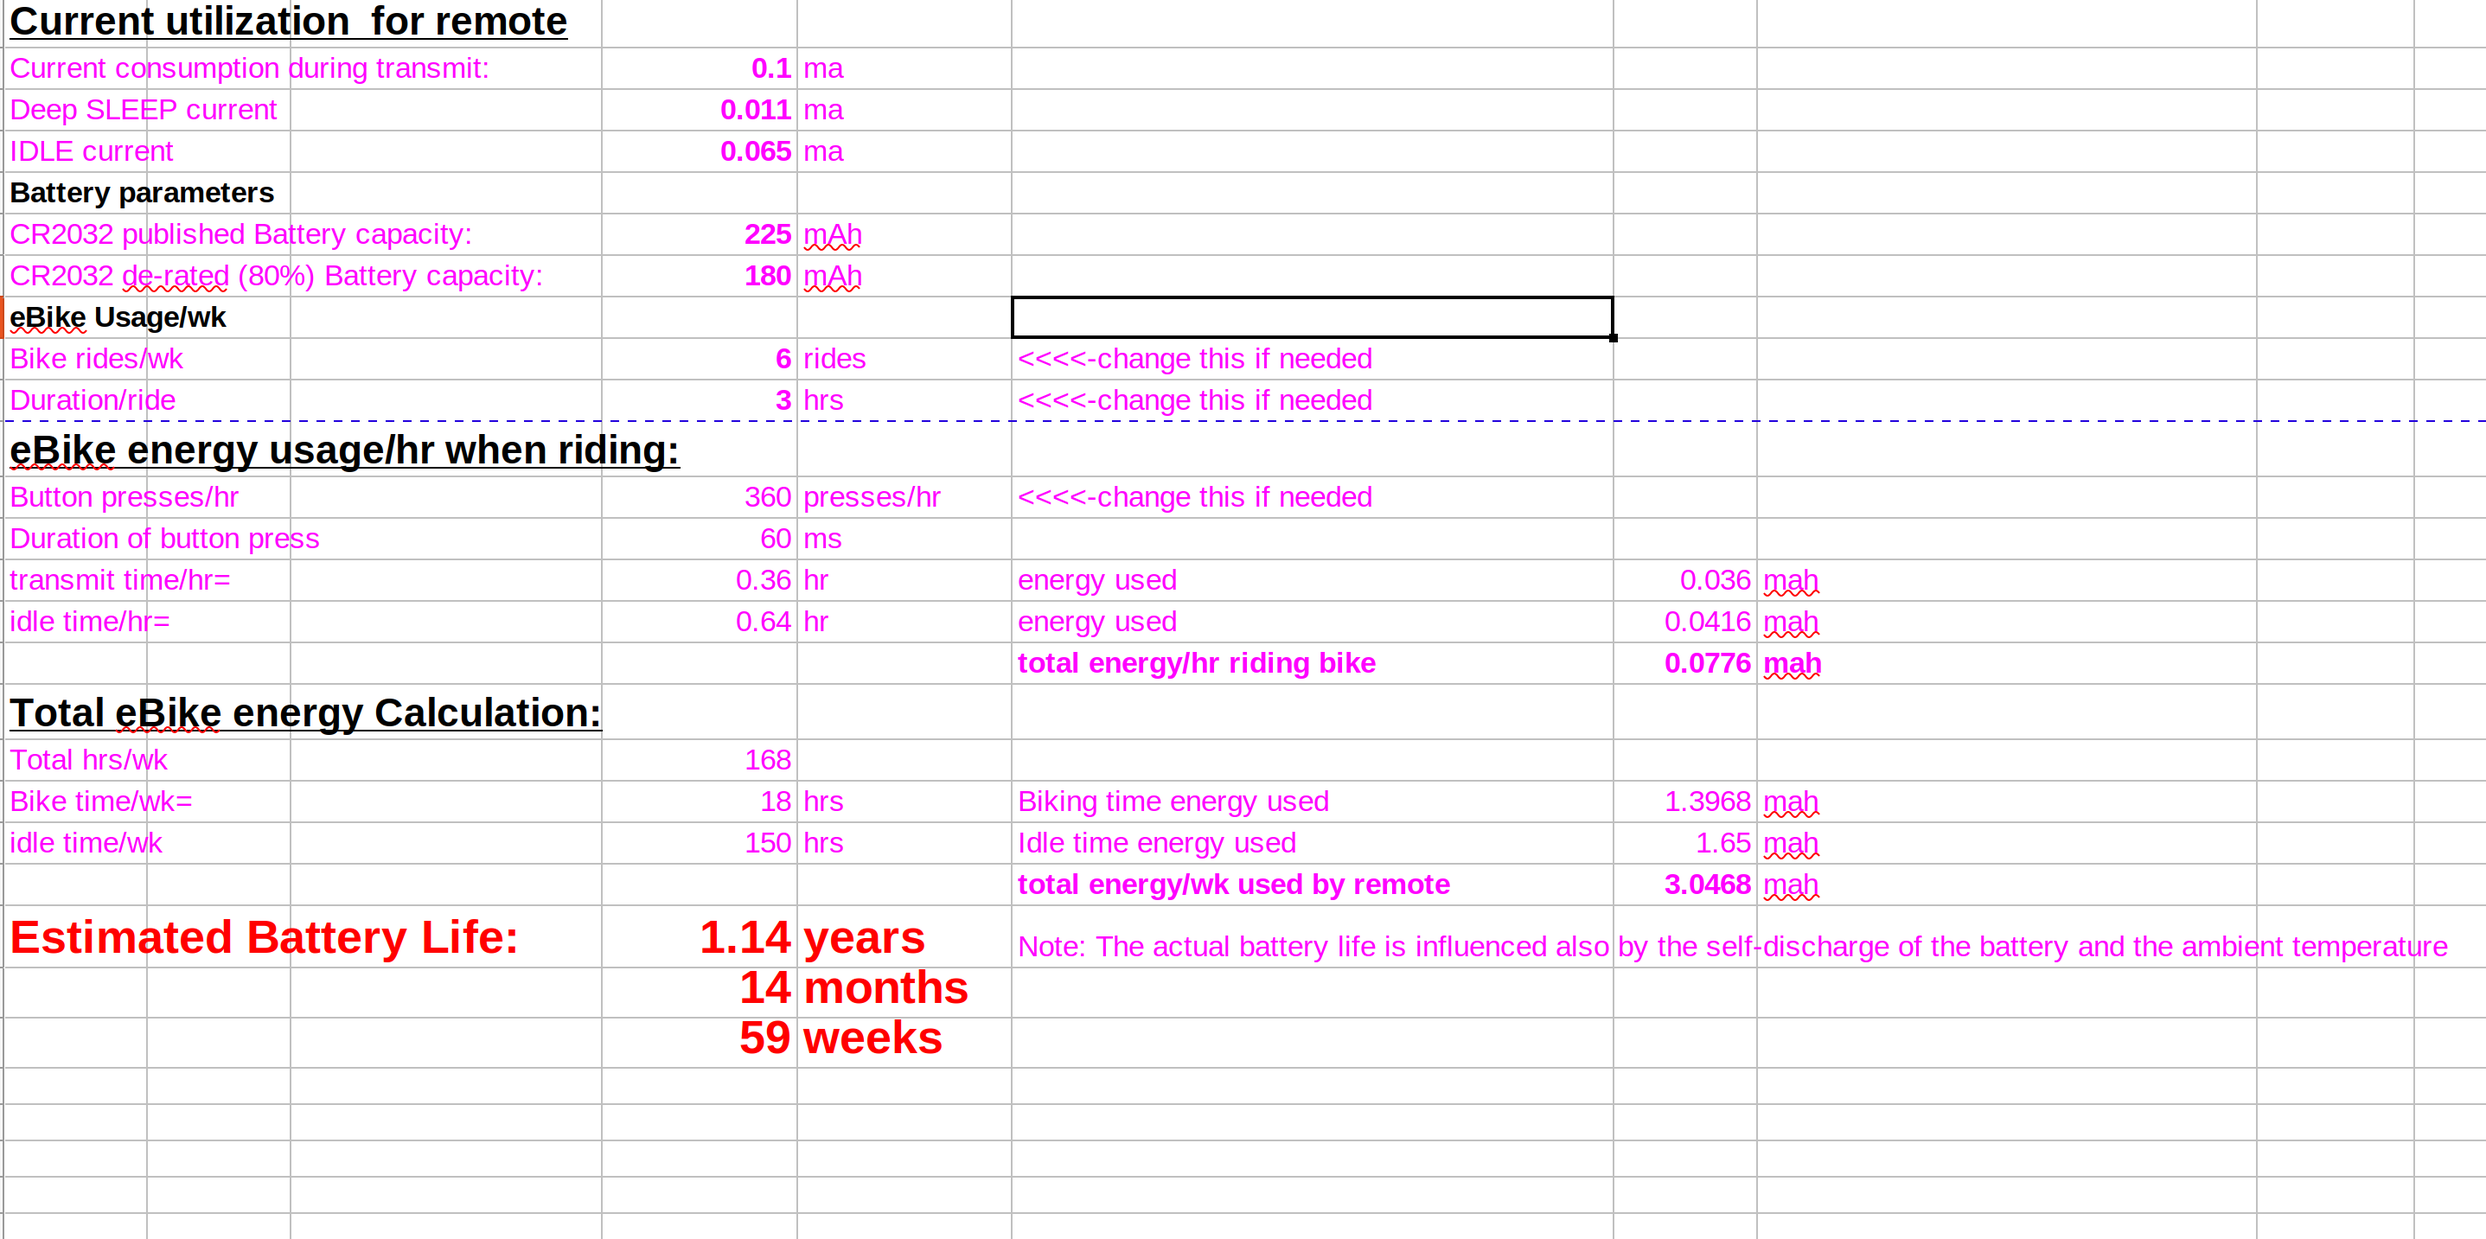
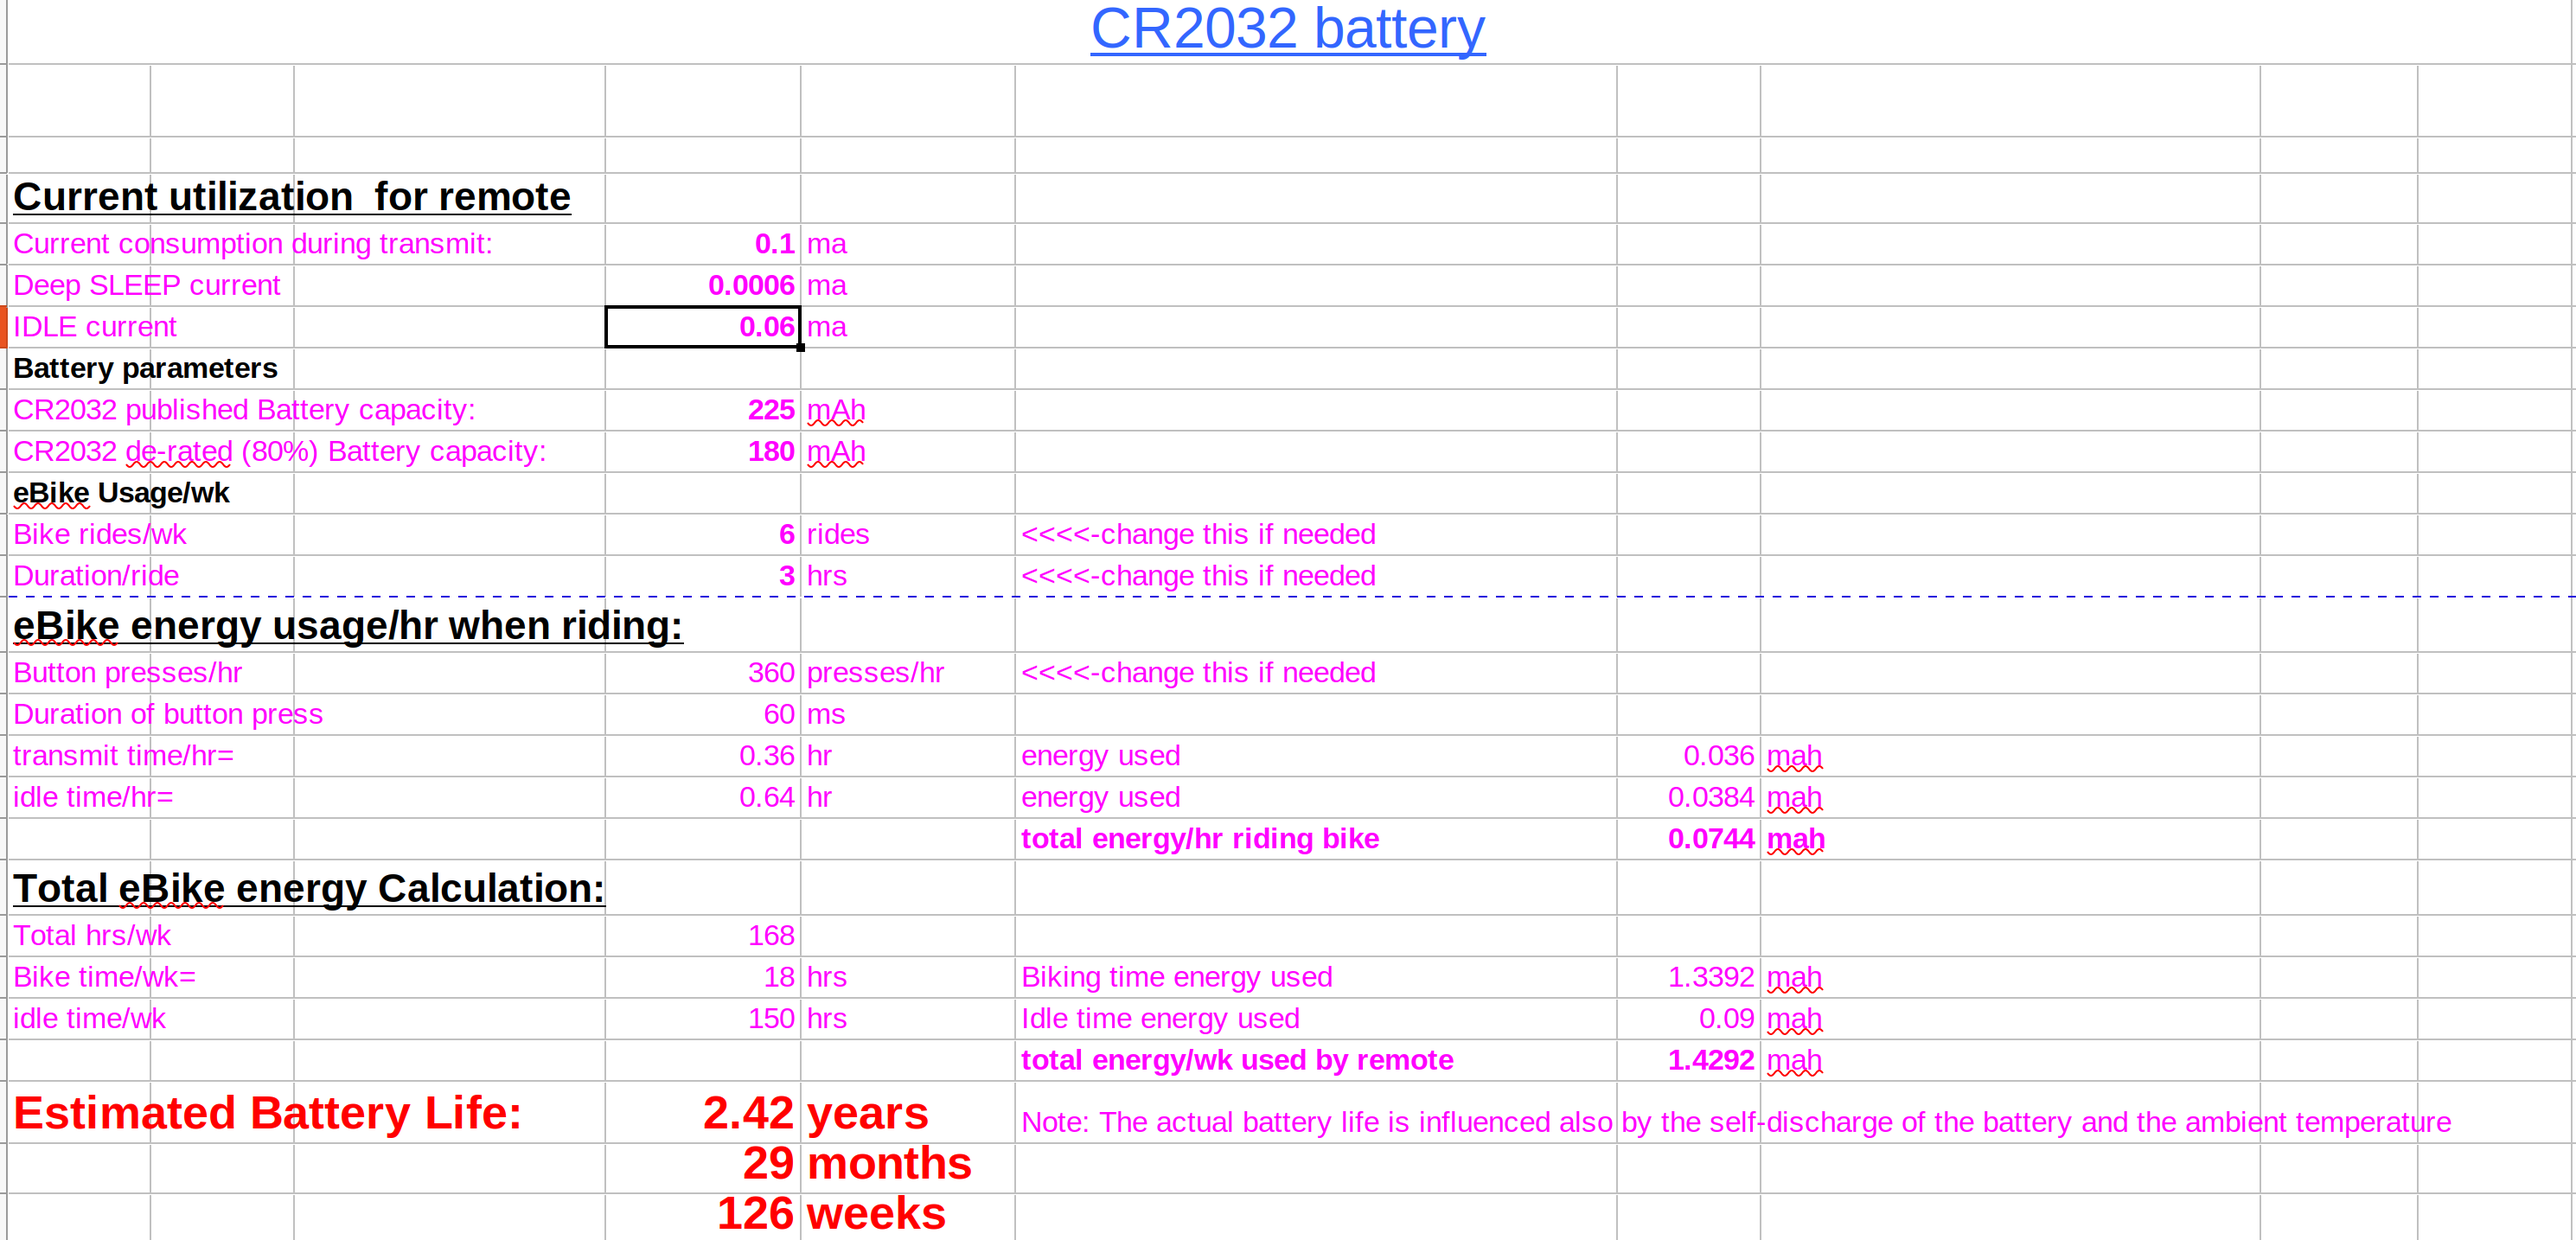
Power Breakthrough! (#46)
* trying again

* readme changes

* Fix timeout problem with bluetooth

* flash configuration changes

* fix makefile so it can build

* brake flag, config led display and DFU

* cleaned up code

* cleaned up directory

* new docs

* fixed first level header issue

* Created Docs for flashing in ubuntu and windows

* getting started doc change

* getting started mods

* delete file

* Release v1.0.0

* switch to the nordic dongle

* added STANDBY + ENTER pin DFU mode for remote

* flash red led for long press feedback

* Merge branch 'master'

* flash led on long press

* updated docs

* control pwr led

* Squashed commit of the following:

commit f75364d9c2ecf4c27ac7ca707bf213d7061be954
Merge: e933540 5efa943
Author: rananna <rnorth@kitavar.com>
Date:   Fri Dec 18 11:48:59 2020 -0500

    Merge branch 'clean' of git://github.com/OpenSourceEBike/ebike_wireless_remote into clean

commit 5efa9434a3b2dec16acf82cc85ee59f7d89bb17d
Author: casainho <casainho@gmail.com>
Date:   Thu Dec 17 18:01:17 2020 +0000

    Removed nrf_pwr_mgmt_run() as it is making the code not working

commit 4becfcac8b224460f8016813b30be9351b6f446b
Author: casainho <casainho@gmail.com>
Date:   Wed Dec 16 17:57:22 2020 +0000

    Clean

commit e9e56710dbee9834af5652327bf6a6a1662e6e36
Author: rananna <rnorth@kitavar.com>
Date:   Tue Dec 15 09:57:35 2020 -0500

    trying again with new docs (#36)

    * trying again

    * readme changes

    * Fix timeout problem with bluetooth
[…]

diff --git a/firmware/main.c b/firmware/main.c
@@ -787,6 +787,7 @@ void buttons_init(void)
 }
 void shutdown(void)
 {
+  /*
   nrf_gpio_pin_clear(19); //reset
   nrf_delay_ms(10);
   nrf_gpio_pin_clear(BUTTON_1); //button1
@@ -815,18 +816,18 @@ void shutdown(void)
   sd_power_dcdc_mode_set(NRF_POWER_DCDC_DISABLE);
   sd_power_pof_enable(0);
   nrf_delay_ms(100);
-  /*
+  
   nrf_gpio_cfg_default(LED1_G);
   nrf_gpio_cfg_default(LED2_R);
   nrf_gpio_cfg_default(LED2_G);
   nrf_gpio_cfg_default(LED2_B);
 
-  */
+
   nrf_gpio_cfg_default(BUTTON_1);
   nrf_gpio_cfg_default(19);
   sd_clock_hfclk_release();
   nrf_delay_ms(10);
-
+*/
   nrf_delay_ms(1000);
   nrf_pwr_mgmt_shutdown(NRF_PWR_MGMT_SHUTDOWN_GOTO_SYSOFF);
 }

diff --git a/documentation/Power_Analysis.md b/documentation/Power_Analysis.md
@@ -12,7 +12,7 @@ If both Ant Lev and Ant Controls is active in the remote the average idle curren
 ![Figure 2](ant_lev+ctrl_idle.png)
 In **POWER IDLE** mode, the remote is powered on and ready to immediately process button commands.
 2. **POWER OFF MODE**
-   In this mode, the remote control turns off all  bluetooth and ANT wireless capabilities. The remote is put into a minimal power dissipation mode. The average power off current in this mode is 10.27 uA as shown below:
+   In this mode, the remote control turns off all  bluetooth and ANT wireless capabilities. The remote is put into a minimal power dissipation mode. The average power off current in this mode is only 0.44 uA as shown below:
    ![figure 3](deep_sleep.png)
 3. **ANT LEV TRANSMISSION MODE**
     In this mode, either the plus or minus button is pressed to increase or decrease the assist level on the ebike.
@@ -51,7 +51,7 @@ In **POWER IDLE** mode, the remote is powered on and ready to immediately proces
   FEP is the "Functional End Point" voltage at which the remote will no longer operate. (2 V). As can be seen from the power mode graphs above, the current peaks in the remote are between 10 and 15ma. We can therefore expect approximately 180 mah effective capacity from a CR2032 cell.
   This is the battery capacity used in the estimation of battery life.
    - The idle current is 66uA (see **POWER OFF MODE** above)
-   - the **POWER OFF** current is 11 uA
+   - the **POWER OFF** current is 0.6 uA
    - The wake current is 100 uA (see **ANT LEV TRANSMISSION MODE** above)
    
    - the average duration of a button click (where the board is in transmitting mode) is 58ms as measured below:
@@ -59,10 +59,10 @@ In **POWER IDLE** mode, the remote is powered on and ready to immediately proces
    -  The ebike is ridden 18hrs/week
    -  The remote control spends virtually no time in bluetooth mode. (bluetooth is used only when setting up the remote)
    - The Leds are used sparingly
-  Feeding these assumptions into the  [Battery Life Calculator](./Battery_Life_Calculator.xls) spreadsheet, the battery life is estimated to be **14 months**. 
+  Feeding these assumptions into the  [Battery Life Calculator](./Battery_Life_Calculator.xls) spreadsheet, the battery life is estimated to be **29 months!**. 
   ![figure 13](battery_life.png)
   ## Conclusion
-  Based on quite conservative assumptions, it is expected that the remote will continue functioning for at least a year. 
+  Based on quite conservative assumptions, it is expected that the remote will continue functioning well for at least a year. 
   **Replacing the battery annually is recommended.**
 ## [back](./battery.md)
  

diff --git a/documentation/getting_started.md b/documentation/getting_started.md
@@ -31,12 +31,12 @@ __Instructions:__
    
 ![Figure 6](vdd_out.png)
 
-To ensure the dongle has the longest possible battery life it is necessary to put a small drop of solder on the SB1 pad on the bottom of the board to short it out.
+To ensure the dongle has the longest possible battery life it is necessary to cut the SB2 pad on the bottom of the board to open the circuit.
 
 ![](board_back.png)
 
-__Why do we need to short SB1?__
-Please note that the usual power supply of the nRF52840 Dongle is 5V supplied to the VBUS pin of the dongle; see the [schematic for the dongle](./pca10059_schematic_and_pcb.pdf). VBUS supplies power to a on-chip high voltage regulator of the nRF52840 SoC. The output of this regulator (3.3V) supplies the SoC and the LEDs. The short on SB1 shorts out this high voltage regulator and greatly improves power dissipation when using an external battery.
+__Why do we need to cut SB2?__
+Please note that the usual power supply of the nRF52840 Dongle is 5V supplied to the VBUS pin of the dongle; see the [schematic for the dongle](./pca10059_schematic_and_pcb.pdf). VBUS supplies power to a on-chip high voltage regulator of the nRF52840 SoC. The output of this regulator (3.3V) supplies the SoC and the LEDs. The cut on SB2 opens the connection to the high voltage regulator and greatly improves power dissipation when using an external battery (Power off mode dissipation improves from ~10uA to ~0.5uA - a 10X improvement. This improves the battery life from 1 to over 2 years!)
  
 3. **Connect the VLCD5 keypad**
    The VLCD5 handle bar remote keypad has 4 buttons and 5 wires (1 wire for each button and 1 common wire to all buttons). Connect the wires directly to the Nordic nrf52840 dongle. The pins to connect are 0.13, 0.15, 0.17, 0.20 and GND, corresponding to **PLUS, MINUS, ENTER and STANDBY** buttons on the remote keypad
